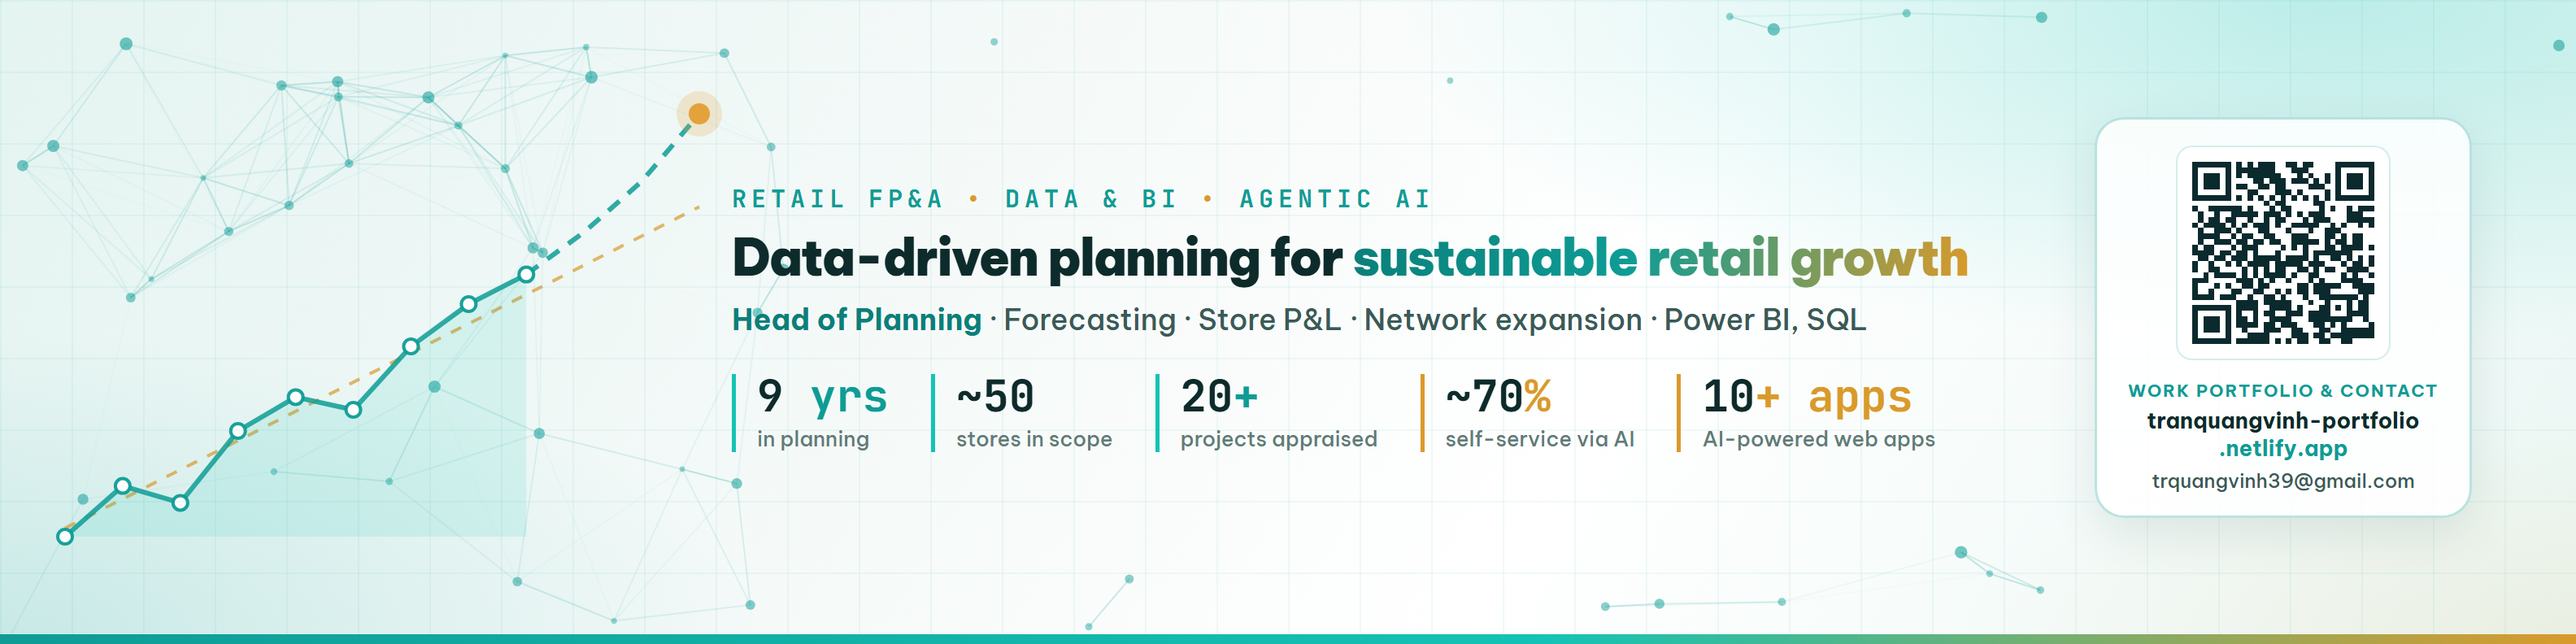
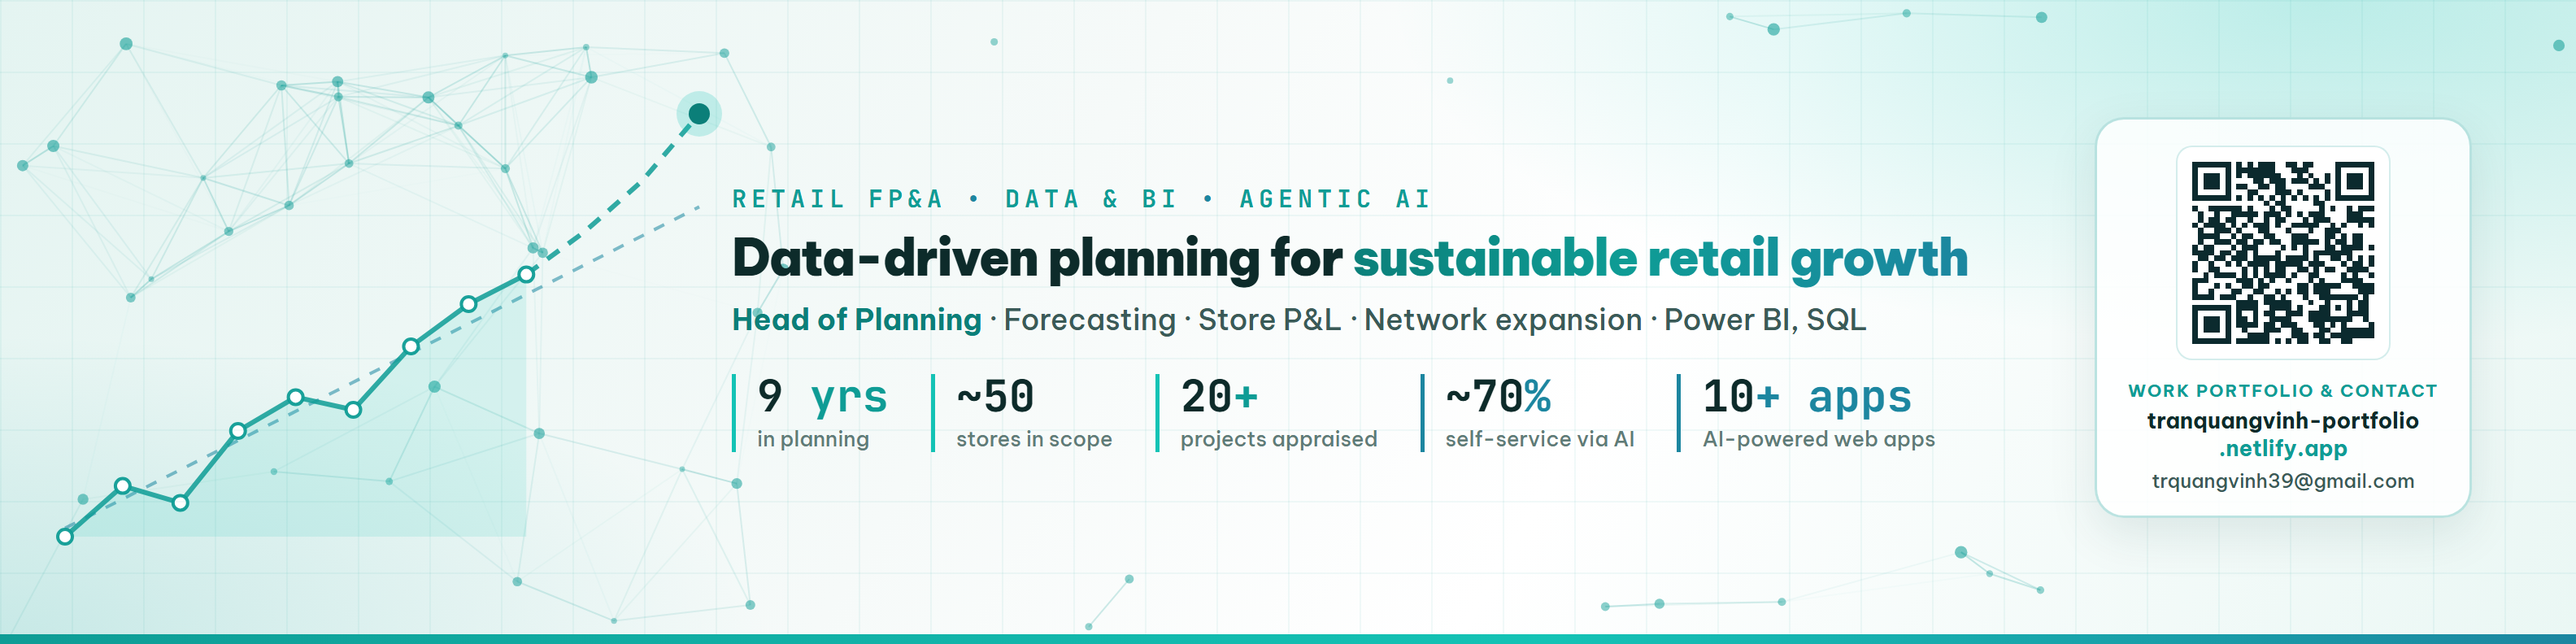
Ảnh bìa: bỏ màu cam, nhấn xanh ngọc - xanh lam

diff --git a/banners/banner.html b/banners/banner.html
@@ -4,11 +4,11 @@
 <html><head><meta charset="utf-8">
 <link rel="stylesheet" href="https://fonts.googleapis.com/css2?family=Be+Vietnam+Pro:wght@400;500;600;700;800;900&family=JetBrains+Mono:wght@500;700&display=swap">
 <style>
-  :root { --ink: #0D2B2A; --ink-2: #3A5A57; --muted: #5F7C78; --teal: #0E9C95; --teal-d: #0B7F79; --teal-3: #14C3B5; --amber: #D99A2B; --line: rgba(14,156,149,.28); }
+  :root { --ink: #0D2B2A; --ink-2: #3A5A57; --muted: #5F7C78; --teal: #0E9C95; --teal-d: #0B7F79; --teal-3: #14C3B5; --amber: #1C86A0; --line: rgba(14,156,149,.28); }
   * { margin: 0; padding: 0; box-sizing: border-box; }
   html, body { overflow: hidden; }
   body { font-family: "Be Vietnam Pro", Arial, sans-serif; color: var(--ink); position: relative;
-    background: radial-gradient(ellipse 60% 90% at 90% 0%, rgba(20,195,181,.26), transparent 60%), radial-gradient(ellipse 50% 80% at 0% 100%, rgba(15,163,160,.16), transparent 60%), radial-gradient(ellipse 40% 60% at 100% 100%, rgba(227,162,59,.10), transparent 60%), linear-gradient(120deg, #E4F4F1 0%, #F6FAF9 40%, #FFFFFF 62%, #EAF7F4 100%); }
+    background: radial-gradient(ellipse 60% 90% at 90% 0%, rgba(20,195,181,.26), transparent 60%), radial-gradient(ellipse 50% 80% at 0% 100%, rgba(15,163,160,.16), transparent 60%), linear-gradient(120deg, #E4F4F1 0%, #F6FAF9 40%, #FFFFFF 62%, #EAF7F4 100%); }
   svg.bg { position: absolute; inset: 0; width: 100%; height: 100%; }
   .grid { position: absolute; inset: 0; background-image: linear-gradient(rgba(14,156,149,.06) 1px, transparent 1px), linear-gradient(90deg, rgba(14,156,149,.06) 1px, transparent 1px); background-size: 44px 44px; }
   .bar { position: absolute; left: 0; right: 0; bottom: 0; height: 6px; background: linear-gradient(90deg, var(--teal), var(--teal-3) 60%, var(--amber)); }
@@ -127,12 +127,12 @@
   function Y(f) { return cy0 - (cy0 - cy1) * f; }
   var ap = act.map(function (f, i) { return X(i) + ',' + Y(f); }).join(' ');
   var fc = [[8, .62], [9, .72], [10, .84], [11, 1]].map(function (q) { return X(q[0]) + ',' + Y(q[1]); }).join(' ');
-  s += '<line x1="' + X(0) + '" y1="' + Y(.02) + '" x2="' + X(11) + '" y2="' + Y(.78) + '" stroke="rgba(217,154,43,.7)" stroke-width="2" stroke-dasharray="7 7"/>';
+  s += '<line x1="' + X(0) + '" y1="' + Y(.02) + '" x2="' + X(11) + '" y2="' + Y(.78) + '" stroke="rgba(28,134,160,.55)" stroke-width="2" stroke-dasharray="7 7"/>';
   s += '<polygon points="' + X(0) + ',' + cy0 + ' ' + ap + ' ' + X(8) + ',' + cy0 + '" fill="rgba(20,195,181,.12)"/>';
   s += '<polyline points="' + ap + '" fill="none" stroke="rgba(14,156,149,.85)" stroke-width="3" stroke-linejoin="round"/>';
   s += '<polyline points="' + fc + '" fill="none" stroke="rgba(14,156,149,.85)" stroke-width="3" stroke-dasharray="9 7"/>';
   act.forEach(function (f, i) { s += '<circle cx="' + X(i) + '" cy="' + Y(f) + '" r="4.5" fill="#fff" stroke="rgba(14,156,149,.95)" stroke-width="2"/>'; });
-  s += '<circle cx="' + X(11) + '" cy="' + Y(1) + '" r="14" fill="rgba(227,162,59,.22)"/><circle cx="' + X(11) + '" cy="' + Y(1) + '" r="6.5" fill="#E3A23B"/>';
+  s += '<circle cx="' + X(11) + '" cy="' + Y(1) + '" r="14" fill="rgba(20,195,181,.22)"/><circle cx="' + X(11) + '" cy="' + Y(1) + '" r="6.5" fill="#0B7F79"/>';
   var bg = document.getElementById('bg');
   bg.setAttribute('viewBox', '0 0 ' + W + ' ' + H);
   bg.innerHTML = s;
